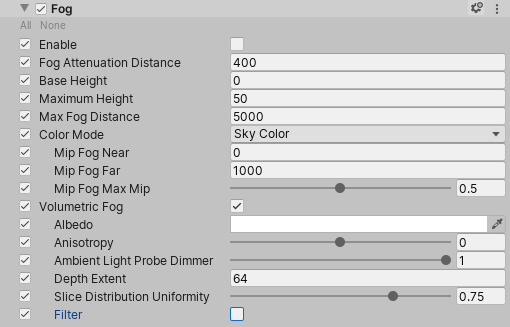
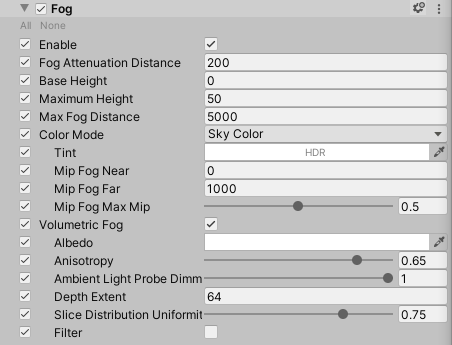
Update fog doc (#5827)

Changed region(s): [[0.031, 0.0, 1.0, 1.0]]

diff --git a/com.unity.render-pipelines.high-definition/Runtime/Lighting/AtmosphericScattering/Fog.cs b/com.unity.render-pipelines.high-definition/Runtime/Lighting/AtmosphericScattering/Fog.cs
@@ -23,6 +23,7 @@ namespace UnityEngine.Rendering.HighDefinition
         /// <summary>Fog color.</summary>
         [Tooltip("Specifies the constant color of the fog.")]
         public ColorParameter        color = new ColorParameter(Color.grey, hdr: true, showAlpha: false, showEyeDropper: true);
+        /// <summary>Specifies the tint of the fog when using Sky Color.</summary>
         [Tooltip("Specifies the tint of the fog.")]
         public ColorParameter        tint = new ColorParameter(Color.white, hdr: true, showAlpha: false, showEyeDropper: true);
         /// <summary>Maximum fog distance.</summary>

diff --git a/com.unity.render-pipelines.high-definition/Documentation~/Override-Fog.md b/com.unity.render-pipelines.high-definition/Documentation~/Override-Fog.md
@@ -43,6 +43,7 @@ The **Fog** override of the active Volume controls the appearance of the global 
 | **Maximum Height**   | Controls the rate of falloff for the height fog in meters. Higher values stretch the fog vertically. At this height , the falloff reduces the initial base density by 63%. |
 | **Max Fog Distance** | Controls the distance (in meters) when applying fog to the skybox or background. Also determines the range of the Distant Fog. For optimal results, set this to be larger than the Camera’s Far value for its Clipping Plane. Otherwise, a discrepancy occurs between the fog on the Scene’s GameObjects and on the skybox. Note that the Camera’s Far Clipping Plane is flat whereas HDRP applies fog within a sphere surrounding the Camera. |
 | **Color Mode** | Use the drop-down to select the mode HDRP uses to calculate the color of the fog.<br />&#8226; **Sky Color**: HDRP shades the fog with a color it samples from the sky cubemap and its mipmaps.<br />&#8226; **Constant Color**: HDRP shades the fog with the color you set manually in the **Constant Color** field that appears when you select this option. |
+| **- Tint**    | HDR color multiplied with the sky color.<br />This property only appears when you select **Sky Color** from the **Color Mode** drop-down. |
 | **- Mip Fog Near**    | The distance (in meters) from the Camera that HDRP stops sampling the lowest resolution mipmap for the fog color.<br />This property only appears when you select **Sky Color** from the **Color Mode** drop-down. |
 | **- Mip Fog Far**     | The distance (in meters) from the Camera that HDRP starts sampling the highest resolution mipmap for the fog color.<br />This property only appears when you select **Sky Color** from the **Color Mode** drop-down. |
 | **- Mip Fog Max Mip** | Use the slider to set the maximum mipmap that HDRP uses for the mip fog. This defines the mipmap that HDRP samples for distances greater than **Mip Fog Far**.<br />This property only appears when you select **Sky Color** from the **Color Mode** drop-down. |
